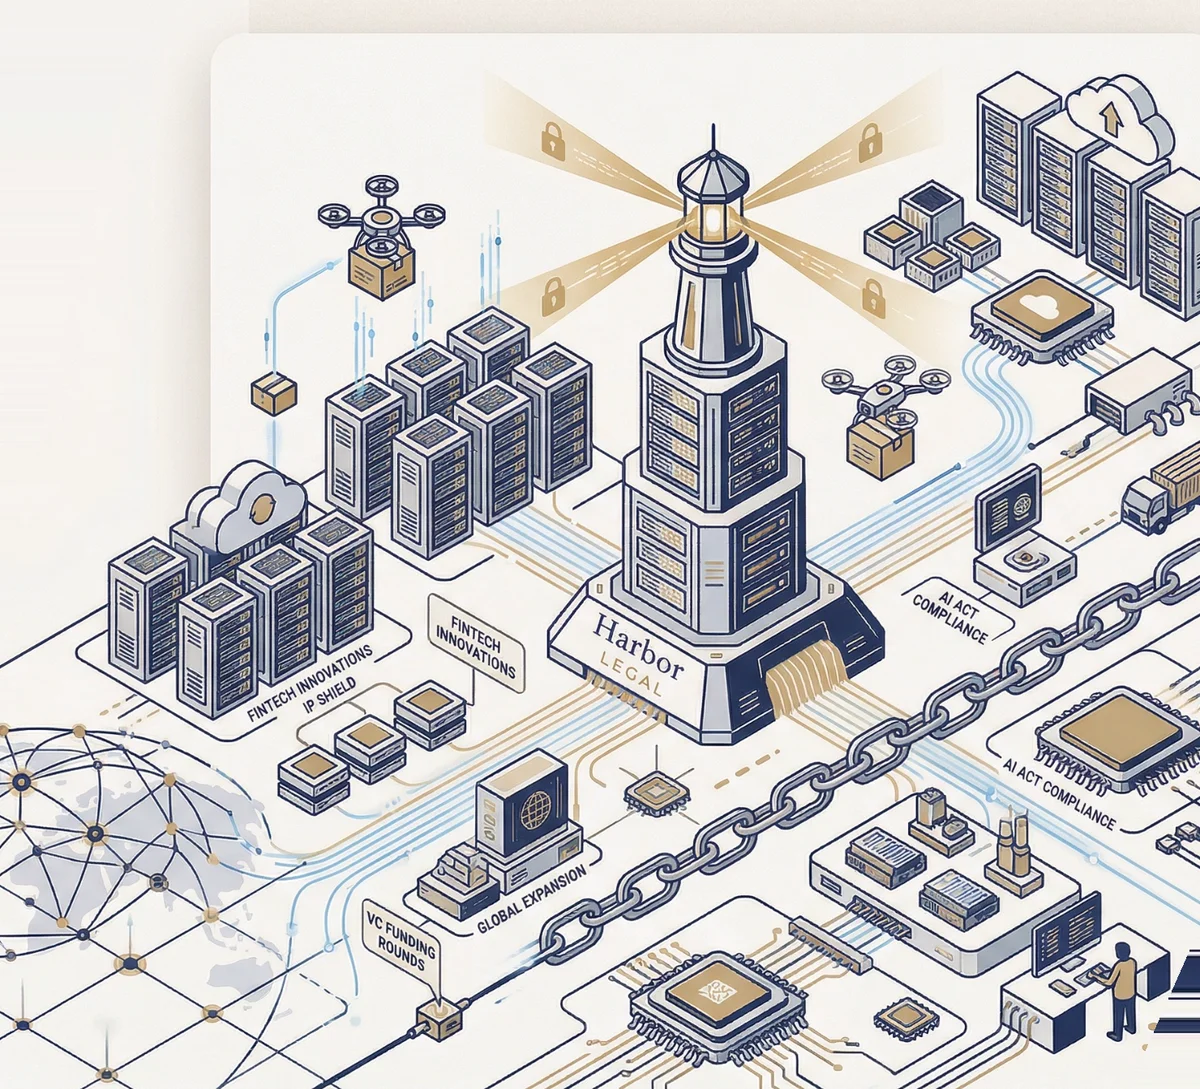
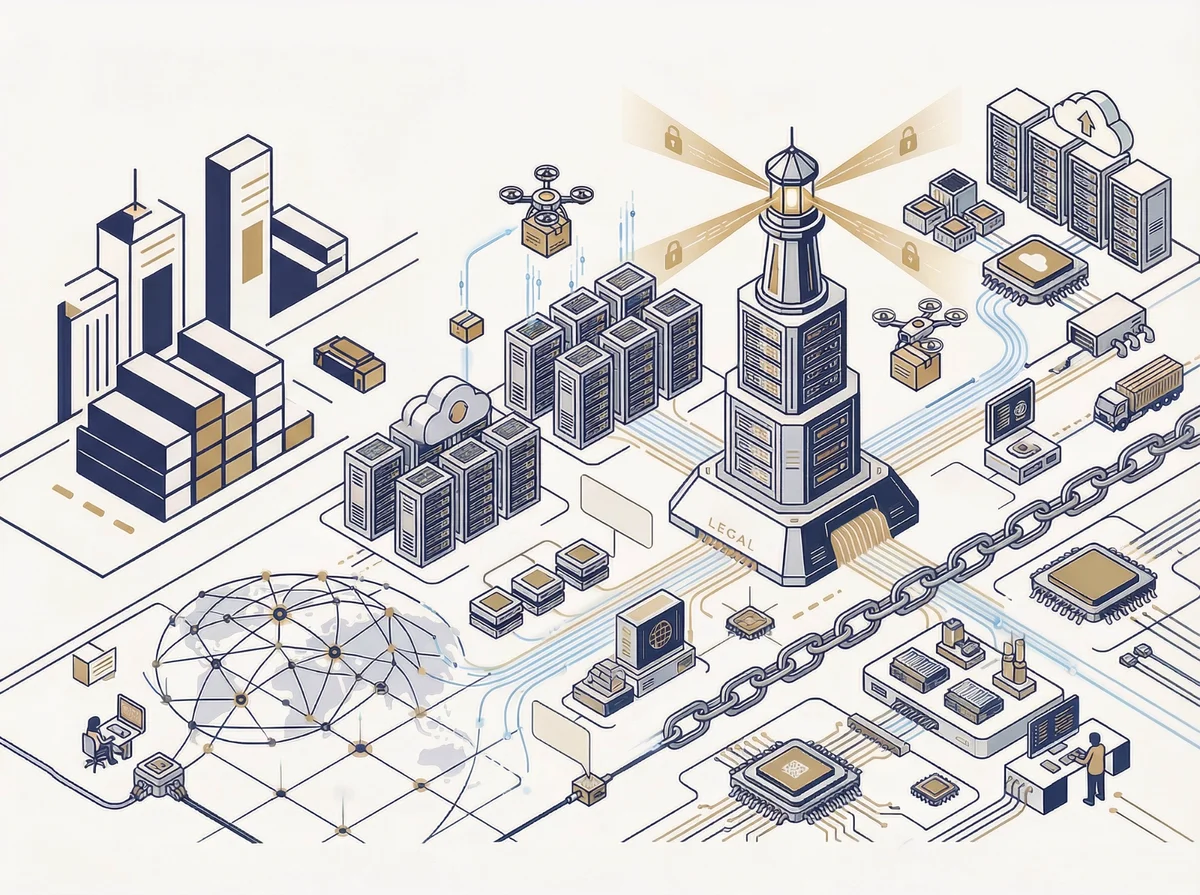
feat: nowy obraz Technologie & Fintech z poprawionym tłem

diff --git a/uslugi/technologie-fintech/index.html b/uslugi/technologie-fintech/index.html
@@ -42,7 +42,7 @@
         <p class="section-desc reveal reveal-delay-1">Od licencjonowania instytucji płatniczych przez rundy VC po compliance z&nbsp;AI&nbsp;Act. 13+ lat doświadczenia w&nbsp;technologiach. Zasięg: EOG&nbsp;·&nbsp;ZEA&nbsp;·&nbsp;Hongkong.</p>
       </div>
       <div class="hero-split-image iso reveal reveal-delay-1">
-        <img src="/images/iso-tech-lighthouse.webp" alt="Harbor Legal — latarnia w świecie technologii i regulacji" width="1200" height="1089" loading="eager">
+        <img src="/images/iso-tech-lighthouse.webp" alt="Harbor Legal — latarnia w świecie technologii i regulacji" width="1200" height="895" loading="eager">
       </div>
     </div>
   </div>
